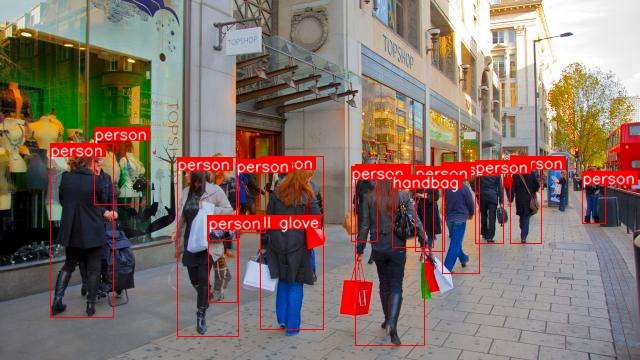
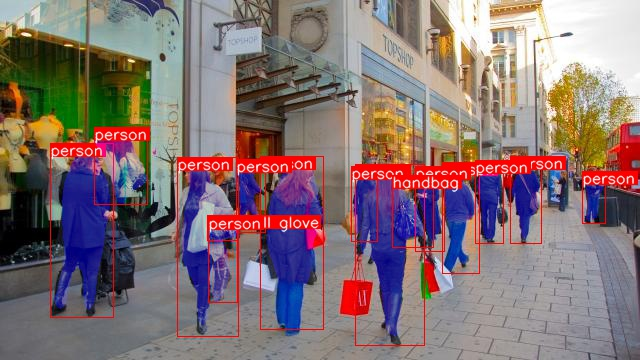
Static Image Object detection successful, bounding box and masks are both displayed

diff --git a/Server/utils.py b/Server/utils.py
@@ -19,7 +19,18 @@ def save_image(path,img):
     cv2.imwrite(path,img)
     
 
-def draw_bounding_box(img,detections,boxes,classes,class_map):
+def apply_mask(image,mask,alpha=0.7):
+    """Apply the given mask to the image.
+    """
+    #for c in range(3):
+    image[:, :, 0] = np.where(mask >= 0.5,
+                              image[:, :, 0] *
+                              (1 - alpha) + alpha * 0.7 * 255,
+                              image[:, :, 0])
+    return image
+
+
+def draw_bounding_box(img,detections,boxes,classes,class_map,masks=None):
     img_height,img_width,_ = img.shape
     
     for i in detections:
@@ -31,8 +42,32 @@ def draw_bounding_box(img,detections,boxes,classes,class_map):
         ymin = int(ymin*img_height)
         ymax = int(ymax*img_height)
         
+
+
         cv2.rectangle(img,(xmin,ymin),(xmax,ymax),(0,0,255),thickness = 1)
         
+        box_height = ymax - ymin
+        box_width = xmax - xmin
+
+        if masks is not None:
+
+            #normalize mask_values
+            masks[i] *= 1.0/masks[i].max()
+
+            # #Quantize
+            # masks[i] = np.where()
+            
+            #scale mask
+            scaled_mask = cv2.resize(masks[i],(box_width,box_height))
+
+            #mask as image
+            image_mask = np.zeros((img_height,img_width))
+            
+            image_mask[ymin:ymax,xmin:xmax] = scaled_mask
+
+            #apply mask
+            img = apply_mask(img,image_mask)
+
         font = cv2.FONT_HERSHEY_SIMPLEX
         
         size = cv2.getTextSize(class_map[int(classes[i])],cv2.FONT_HERSHEY_SIMPLEX,0.5,1)
